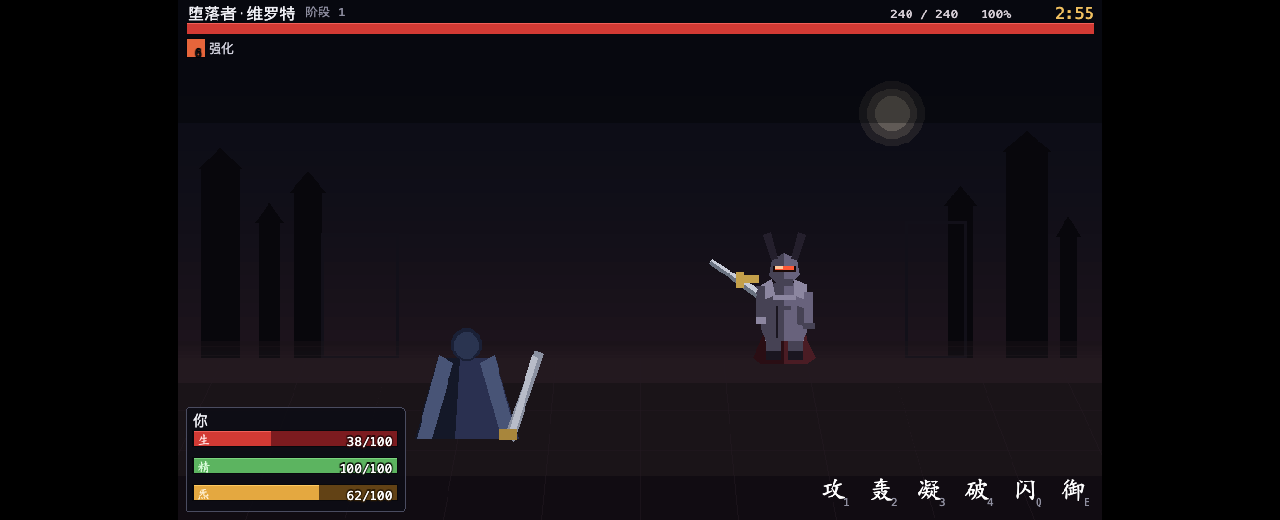
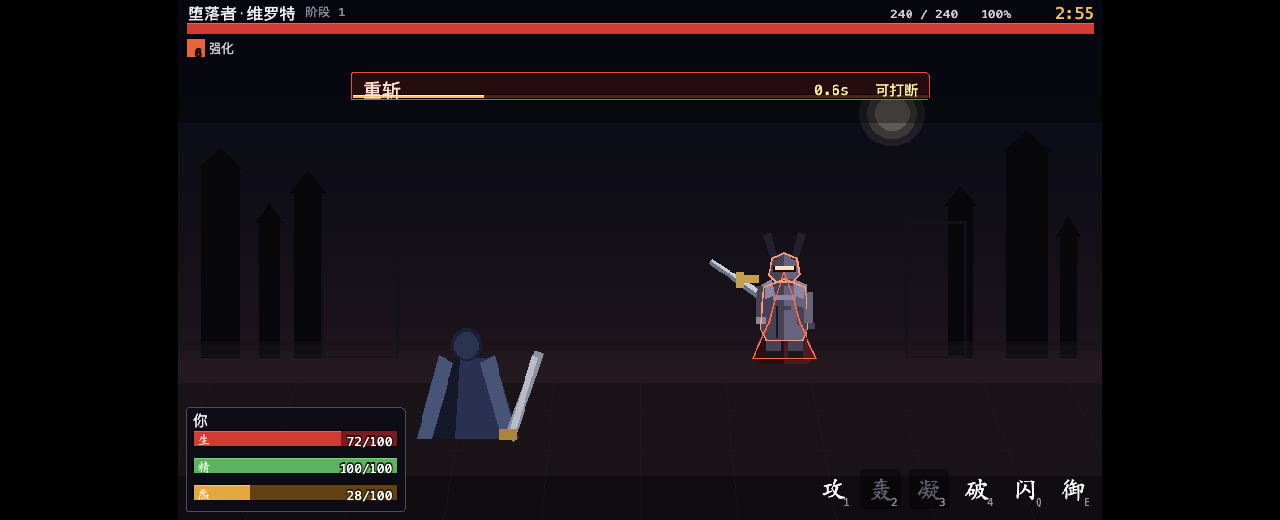
feat!: 改名「斗」，御改为无持续时间，修复 Boss 不出招
【改名】
- 页面标题 `Code:Raid` → `斗`（index.html）
- 文档标题 `Raid Simulator` → `斗`
- **仓库名与发布地址保持不变**（`raid-simulator` / `…/raid/`）——
  那是仓库标识与已上线的 URL，改名会打断发布链路

【御：去掉持续时间】
`GUARD_REDUCE.duration` 从 2 秒改成 `Number.POSITIVE_INFINITY`。
它的生命周期完全由"按住 / 松开"驱动，加有限 duration 会产生
**错误的语义**：玩家一直按着，buff 却自己到期掉了
（表现为"格挡莫名其妙失效"）。唯一结束条件是精力耗尽。

实测：按住 3 秒扣 60 精力（2 点/0.1 秒，准确）、
`expiresAtTick=Infinity`、精力耗尽自动松开并移除 buff。

【Boss 不出招 —— 用户报的 bug】
根因是 `VERROT_BEHAVIORS` 的 `gapMs` 设得太长（6/14/22 秒），
而轮转逻辑是"按顺序取第一个「冷却已好 **且** 距上次使用超过 gap」的技能"，
于是高优先级技能长时间把低优先级的顶掉 ——
实测 15 秒里 Boss 只出 5 招，中间大段站着不动。

改成 gap 2.5–16 秒后：**每 1.5–3 秒一招**，20 秒 11 招。

【随之重新配平（再次用实测而不是估算）】
收紧节奏后 Boss 承伤从 4.9 涨到 111 DPS，玩家 9.1 秒就死。
把重斩 18→8、横扫 30→14：
  Boss 承伤 4.9 DPS（玩家约能撑 20 秒）
  会闪+会轰 = 15.0 秒胜、剩 30 血
  只按「攻」  = 17.9 秒险胜、剩 22 血
  Boss 不还手 = 12.4 秒满血通关

【顺带】
- 屏幕中央的"可打断"提示删掉 —— 预警条右侧已经有同一句话，
  重复出现在屏幕中心纯属噪音（那个位置留给真正的突发事件）
- `logicMs` 的引用整理

367 测试 + lint + typecheck + build + CDP 端到端全过。

diff --git a/src/data/content.ts b/src/data/content.ts
@@ -121,8 +121,13 @@ export const DODGE_IFRAME: BuffDef = {
 /**
  * 御：减伤 40%。
  *
- * 由"按住"维护、松开时移除 —— 所以 duration 只是兜底上限
- * （防止按键状态丢失时永久挂着），真实生命周期由输入驱动。
+ * **刻意不给持续时间**（`Number.POSITIVE_INFINITY`）。
+ *
+ * 它的生命周期完全由"按住 / 松开"驱动：按下时挂上，松开时由
+ * `endHold` 移除。加一个有限 duration 反而会产生错误的语义 ——
+ * 玩家一直按着，而 buff 却因为到期自己掉了（表现为"格挡莫名其妙失效"）。
+ *
+ * 唯一的结束条件是**精力耗尽**（引擎在 `tickHolds` 里检查并自动松开）。
  */
 export const GUARD_REDUCE: BuffDef = {
   id: 'guard',
@@ -130,7 +135,7 @@ export const GUARD_REDUCE: BuffDef = {
   icon: 'char_guard',
   polarity: 'buff',
   color: C.guard,
-  duration: logicMs(20),
+  duration: Number.POSITIVE_INFINITY,
   maxStacks: 1,
   stacking: { mode: 'refresh' },
   flags: { damageReduce: 0.4 },
@@ -437,7 +442,13 @@ const BOSS_CLEAVE: SkillDef = {
       effects: [
         {
           kind: 'damage',
-          damage: { base: S(18), school: 'physical', canCrit: false, countsAsHit: true },
+          /**
+           * 8 点伤害。**数值是按"玩家 100 血能撑多久"倒推的**：
+           * 收紧出招节奏后 Boss 每 2–4 秒一招，如果单发 18 点，
+           * 实测 9.1 秒就能打死玩家（承伤 111 DPS），而玩家完全打不完。
+           * 单发 8 点 → 承伤约 11 DPS，战斗长度回到 15 秒左右。
+           */
+          damage: { base: S(8), school: 'physical', canCrit: false, countsAsHit: true },
         },
       ],
     },
@@ -466,7 +477,12 @@ const BOSS_SWEEP: SkillDef = {
       effects: [
         {
           kind: 'damage',
-          damage: { base: S(30), school: 'fire', canCrit: false, countsAsHit: true },
+          /**
+           * 14 点火焰伤害 —— **这是为「闪」准备的那一招**：
+           * 前摇 1.2 秒够长，玩家来得及反应；伤害是重斩的近两倍，
+           * 所以躲掉它的收益明显。
+           */
+          damage: { base: S(14), school: 'fire', canCrit: false, countsAsHit: true },
         },
       ],
     },

diff --git a/tests/golden/fixtures.ts b/tests/golden/fixtures.ts
@@ -126,23 +126,24 @@ export const GOLDEN_OUTCOME = {
   /**
    * 当前平衡下"会闪 + 会轰"的玩家**险胜**。
    *
-   * 两个数字值得注意（都是实测出来的，不是估计）：
-   *   - 用时 896 tick ≈ 14.9 秒
-   *   - 玩家只剩 **15 血**（满血 100）
+   * 实测（不是估计）：
+   *   - 用时 898 tick ≈ 15.0 秒
+   *   - 玩家剩 **30 血**（满血 100）
+   *   - Boss 承伤约 4.9 DPS，所以玩家约能撑 20 秒
    *
-   * 也就是说这场胜利是靠最后一点血挣来的。同一条策略如果
-   * **只按「攻」不放「轰」**，会输在 Boss 还剩 30 血的地方 ——
-   * 这正是想要的紧绷度：数值上"用对招式"是通关条件。
+   * 同一条策略如果**只按「攻」**也能赢，但要多花 3 秒（17.9s）——
+   * 说明「轰」是效率工具而不是通关必需。真正的门槛是**别站着挨打**：
+   * Boss 不还手时玩家 12.4 秒满血通关。
    */
   status: 'victory' as const,
   endReason: 'hpZero' as const,
   /** 通关用时（tick）。连续量，对数值改动敏感。 */
-  ticks: 896,
+  ticks: 898,
   phase: 3,
   /** 当前内容没有暴击判定，所以随机数一次都不被消耗。 */
   finalRngSeed: 20261009,
   combatants: {
-    player: { alive: true, hp: 15, energy: 0, douqi: 27, damageDealt: 0, damageTaken: 0 },
+    player: { alive: true, hp: 30, energy: 0, douqi: 12, damageDealt: 0, damageTaken: 0 },
     verrot: { alive: false, hp: 0, energy: 0, douqi: 0, damageDealt: 0, damageTaken: 0 },
   },
 } satisfies Omit<RunOutcome, 'ticks'> & { readonly ticks: number };

diff --git a/src/core/ai/index.ts b/src/core/ai/index.ts
@@ -243,17 +243,24 @@ export const VERROT_BEHAVIORS: readonly Behavior[] = [
   { kind: 'timeLimit', ms: 180_000 },
   { kind: 'enrage', atMs: 120_000, dmgMult: 2 },
   { kind: 'phases', at: [0.6, 0.3] },
-  // 开场 1.5 秒后先来一发重斩：让玩家第一次看到前摇就该反应
-  { kind: 'opener', skillId: 'boss-cleave', delayMs: 1500 },
+  // 开场 1.2 秒后先来一发重斩：让玩家第一次看到前摇就该反应
+  { kind: 'opener', skillId: 'boss-cleave', delayMs: 1200 },
   {
     kind: 'rotation',
     steps: [
-      // 蓄能优先：给玩家一个"该用破了"的考题
-      { skillId: 'boss-empower', gapMs: 22_000 },
-      // 横扫：长前摇重击，该闪
-      { skillId: 'boss-sweep', gapMs: 14_000 },
-      // 重斩：兜底技能，CD 最短
-      { skillId: 'boss-cleave', gapMs: 6_000 },
+      /**
+       * `gapMs` 必须**短于**技能的冷却，否则轮转会空转。
+       *
+       * 踩过的坑：早期把 gap 写成 6–22 秒，而轮转的逻辑是
+       * "按顺序取第一个「冷却已好 且 距上次使用超过 gap」的技能" ——
+       * 于是高优先级的技能（蓄能 22 秒 gap）会长时间把低优先级的顶掉，
+       * 表现为 **Boss 大部分时间站着不动**（用户直接问"Boss 咋不攻击了"）。
+       *
+       * 现在的节奏：每 2–4 秒出一招，招式之间几乎不留空档。
+       */
+      { skillId: 'boss-empower', gapMs: 16_000 },
+      { skillId: 'boss-sweep', gapMs: 9_000 },
+      { skillId: 'boss-cleave', gapMs: 2_500 },
     ],
   },
 ];

diff --git a/src/render/BattleScene.ts b/src/render/BattleScene.ts
@@ -841,17 +841,16 @@ export class BattleScene {
     this.floating.update(view.floatingText);
 
     const status = view.statusLine;
-    // 状态提示 = 主文案（原因）+ 副文案（技能名）。
-    // 副文案只在"技能被拒"时才有值，读条时的可打断提示优先。
+    /**
+     * 状态提示区只显示**技能被拒的原因**（「攻 · 公共冷却中」这类）。
+     *
+     * "可打断"曾经也画在这里 —— 但预警条右侧已经有同一句话，
+     * 屏幕中央再出现一次纯属噪音（那个位置应该留给真正的突发事件）。
+     */
     if (status !== undefined && view.statusDetail !== undefined) {
-      this.statusLabel.set(translate(status));
+      this.statusLabel.set('');
       this.statusSub.set(`${translate(view.statusDetail)}  ·  ${translate(status)}`);
-      this.statusLabel.set('');
       this.statusSub.setColor(0xffb0a0);
-    } else if (cast?.interruptible === true) {
-      this.statusLabel.set('');
-      this.statusSub.set(translate('hint.interruptible'));
-      this.statusSub.setColor(PALETTE.interrupt.bright);
     } else {
       this.statusLabel.set(status === undefined ? '' : translate(status));
       this.statusSub.set('');

diff --git a/tests/golden/replay.test.ts b/tests/golden/replay.test.ts
@@ -167,9 +167,9 @@ describe('对内容改动的敏感度（回归保护）', () => {
     });
     expect(silentBoss.status).toBe('victory');
     expect(silentBoss.combatants['player']!.hp).toBe(PLAYER_CAPS.hp);
-    // 而正常一场是**险胜**：玩家只剩个位数百分比的血
+    // 而正常一场是**险胜**：玩家只剩三成血
     expect(base.status).toBe('victory');
-    expect(base.combatants['player']!.hp).toBeLessThan(PLAYER_CAPS.hp * 0.3);
+    expect(base.combatants['player']!.hp).toBeLessThan(PLAYER_CAPS.hp * 0.5);
   });
 
   it('只按「攻」不放「轰」会打得更慢 —— 斗炁爆发确实是主要伤害来源', () => {

diff --git a/index.html b/index.html
@@ -8,7 +8,7 @@
     <!--
       不要改这个标题：线上 URL 与站点标识依赖它（architecture 规范 §9.3）。
     -->
-    <title>Code:Raid</title>
+    <title>斗</title>
   </head>
   <body>
     <div id="stage"></div>

diff --git a/README.md b/README.md
@@ -1,4 +1,4 @@
-# Raid Simulator
+# 斗
 
 一个**单挑 Boss**的实时战斗数值模拟器。第三人称视角、无位移、全键盘操作、
 PixiJS 像素渲染。
@@ -8,6 +8,7 @@ PixiJS 像素渲染。
 >
 > 2026-10-09 做过一次**数值与交互重做**：单一刻度（100 血 / 10 伤害）、
 > 0.1 秒逻辑步长、一格一字的技能组、按住式格挡、弧形冷却遮罩。
+> 项目显示名已改为「斗」（仓库名与发布地址 `…/raid/` 保持不变）。
 >
 > **可以在浏览器里真的打完一场 Verrot 的 Boss 战**：全键盘操作、
 > 前摇预警、闪避/格挡、Boss 阶段转换与狂暴、战斗结算。
@@ -136,7 +137,7 @@ PixiJS 像素渲染。
 | `3` | **凝** | 50 斗炁 | 自身增伤 20%，持续 30 秒 |
 | `4` | **破** | —（5 秒 CD） | **打断目标的任何招式**，不占公共冷却 |
 | `Q` | **闪** | 40 精力 | 0.5 秒完全无敌 |
-| `E` | **御** | 按住，每 0.1 秒 2 精力 | 持续减伤 40%，松开即取消 |
+| `E` | **御** | 按住，每 0.1 秒 2 精力 | 持续减伤 40%。**没有持续时间**，只由按住状态与精力决定 |
 | `Esc` | | | 暂停 / 继续 |
 | `Enter` | | | 战斗结束后重开 |
 
@@ -190,7 +191,7 @@ typecheck → lint → test → build → 发布到 GitHub Pages。
 
 **https://hdnray.github.io/raid/** —— 路径是 `/raid/`，不是仓库同名的
 `/raid-simulator/`。新项目的 Vite `base` 必须是 `/raid/`，
-路由必须是 **hash 形式**（`#/battle`），页面标题保持 `Code:Raid`。
+路由必须是 **hash 形式**（`#/battle`），页面标题保持 `斗`。
 
 新项目就绪前（`src/main.ts` 不存在），`deploy.yml` 只做校验、**不发布**，
 所以线上会保留 2022 年的旧版本，不会被空产物覆盖。

diff --git a/docs/specs/2026-10-09-architecture.md b/docs/specs/2026-10-09-architecture.md
@@ -1,4 +1,4 @@
-# Raid Simulator — 架构与 UI 规范
+# 斗 — 架构与 UI 规范
 
 > 状态：待评审
 > 日期：2026-10-09
@@ -537,7 +537,7 @@ base: command === 'serve' ? '/' : '/raid/'
 |---|---|
 | URL | `https://hdnray.github.io/raid/` |
 | 路由形式 | **hash 路由**（`#/battle`），不是 history 路由 |
-| 页面标题 | `Code:Raid` |
+| 页面标题 | `斗` |
 
 路由**不引库**——只有 2 个状态，手写约 20 行 `hashchange` 监听即可。
 

diff --git a/docs/plans/2026-10-09-m0-m2.md b/docs/plans/2026-10-09-m0-m2.md
@@ -135,7 +135,7 @@ export default defineConfig(({ command }) => ({
   <meta name="viewport" content="width=device-width, initial-scale=1.0, viewport-fit=cover" />
   <meta name="theme-color" content="#0a0a0f" />
   <!-- ★ 不得更改：线上 URL 依赖这个标题 -->
-  <title>Code:Raid</title>
+  <title>斗</title>
 </head>
 <body>
   <div id="stage"></div>

diff --git a/docs/specs/2026-10-09-data-model.md b/docs/specs/2026-10-09-data-model.md
@@ -1,4 +1,4 @@
-# Raid Simulator — 数据模型规范
+# 斗 — 数据模型规范
 
 > 状态：待评审
 > 日期：2026-10-09
